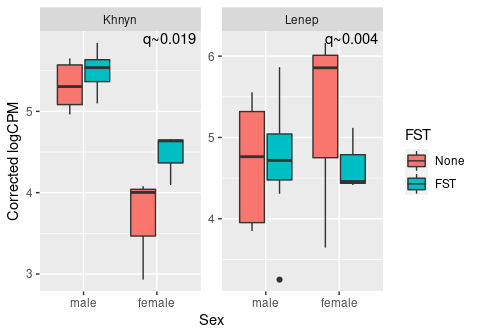
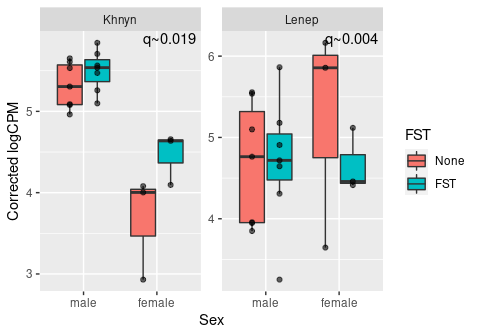
added points

diff --git a/stageR.md b/stageR.md
@@ -1,6 +1,6 @@
 # TRAP meta-analysis using staged FDR
 
-Here we combine the data from both accessions and test for interactions, using the more lenient staged false-discovery rate approach developed by <a href="https://doi.org/10.1186/s13059-017-1277-0">Van den Berge et al. (2017)</a>.
+Here we combine the data from both accessions and test for interactions, using the more lenient staged false-discovery rate approach  developed by <a href="https://doi.org/10.1186/s13059-017-1277-0">Van den Berge et al. (2017)</a>.
 
 
 ```r
@@ -66,8 +66,9 @@ Two genes pass FDR:
 
 
 ```r
-ggplot(meltSE(se, d1$feature), aes(Sex, corrected)) + geom_boxplot(aes(fill=FST)) + 
+ggplot(meltSE(se, d1$feature), aes(Sex, corrected)) + geom_boxplot(aes(fill=FST), outlier.shape=NA) + 
   ylab("Corrected logCPM") + facet_wrap(~feature, scale="free_y") + 
+  geom_point(position=position_dodge(width=0.75), aes(group=FST), alpha=0.6) +
   geom_text(data=d1, aes(x=Inf, y=Inf, label=q), hjust=1.1, vjust=1.2)
 ```
 
@@ -127,8 +128,9 @@ A single gene passes FDR:
 
 
 ```r
-ggplot(meltSE(se, d2$feature), aes(Genotype, corrected)) + geom_boxplot(aes(fill=FST)) + 
+ggplot(meltSE(se, d2$feature), aes(Genotype, corrected)) + geom_boxplot(aes(fill=FST), outlier.shape=NA) + 
   ylab("Corrected logCPM") + facet_wrap(~feature, scale="free_y") + 
+  geom_point(position=position_dodge(width=0.75), aes(group=FST), alpha=0.6) +
   geom_text(data=d2, aes(x=Inf, y=Inf, label=q), hjust=1.1, vjust=1.2)
 ```
 
